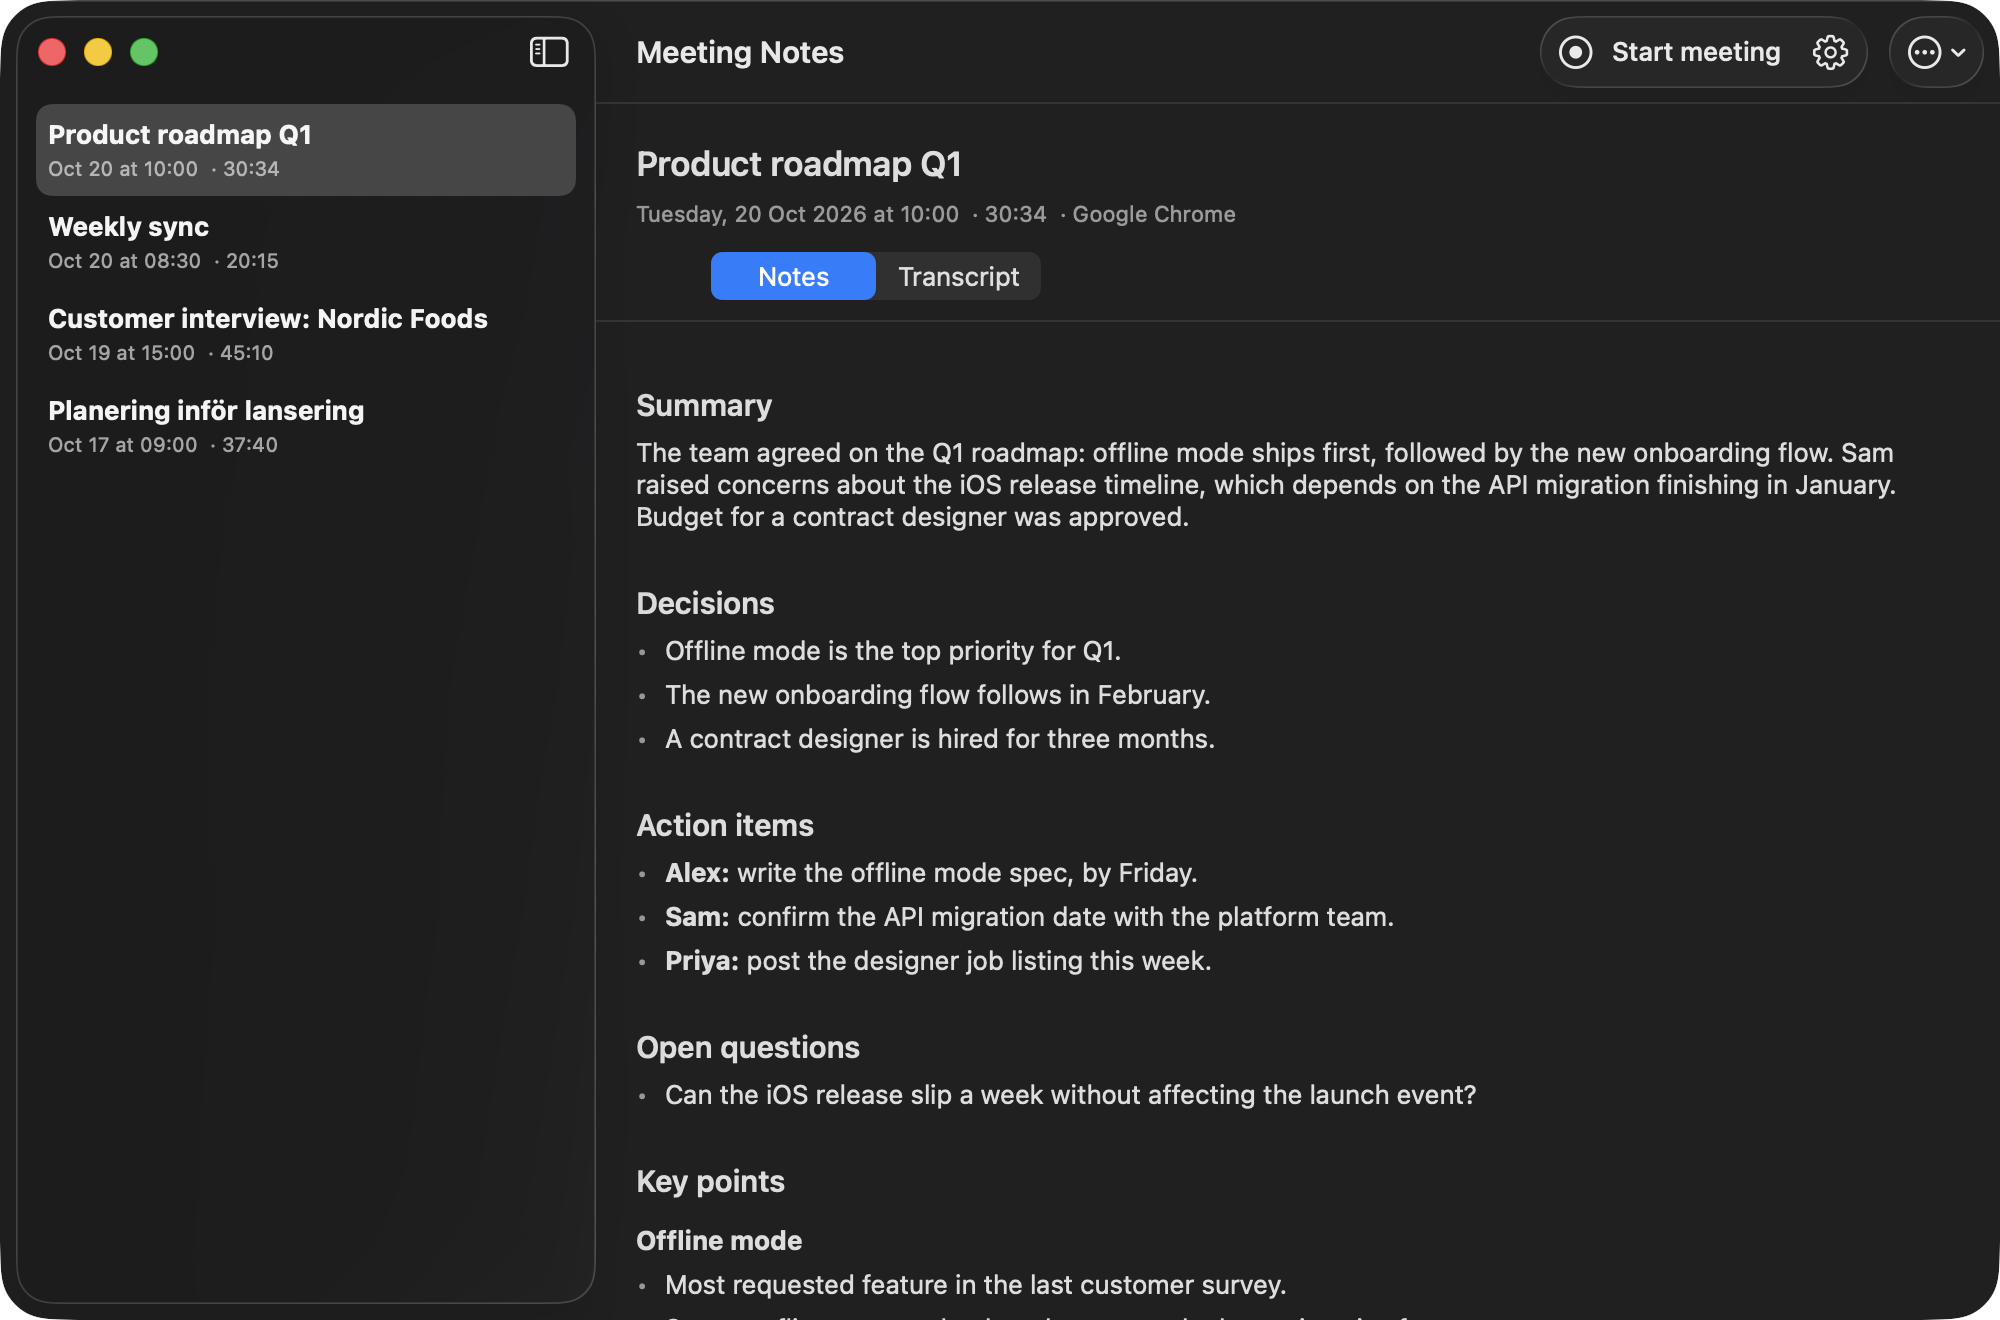
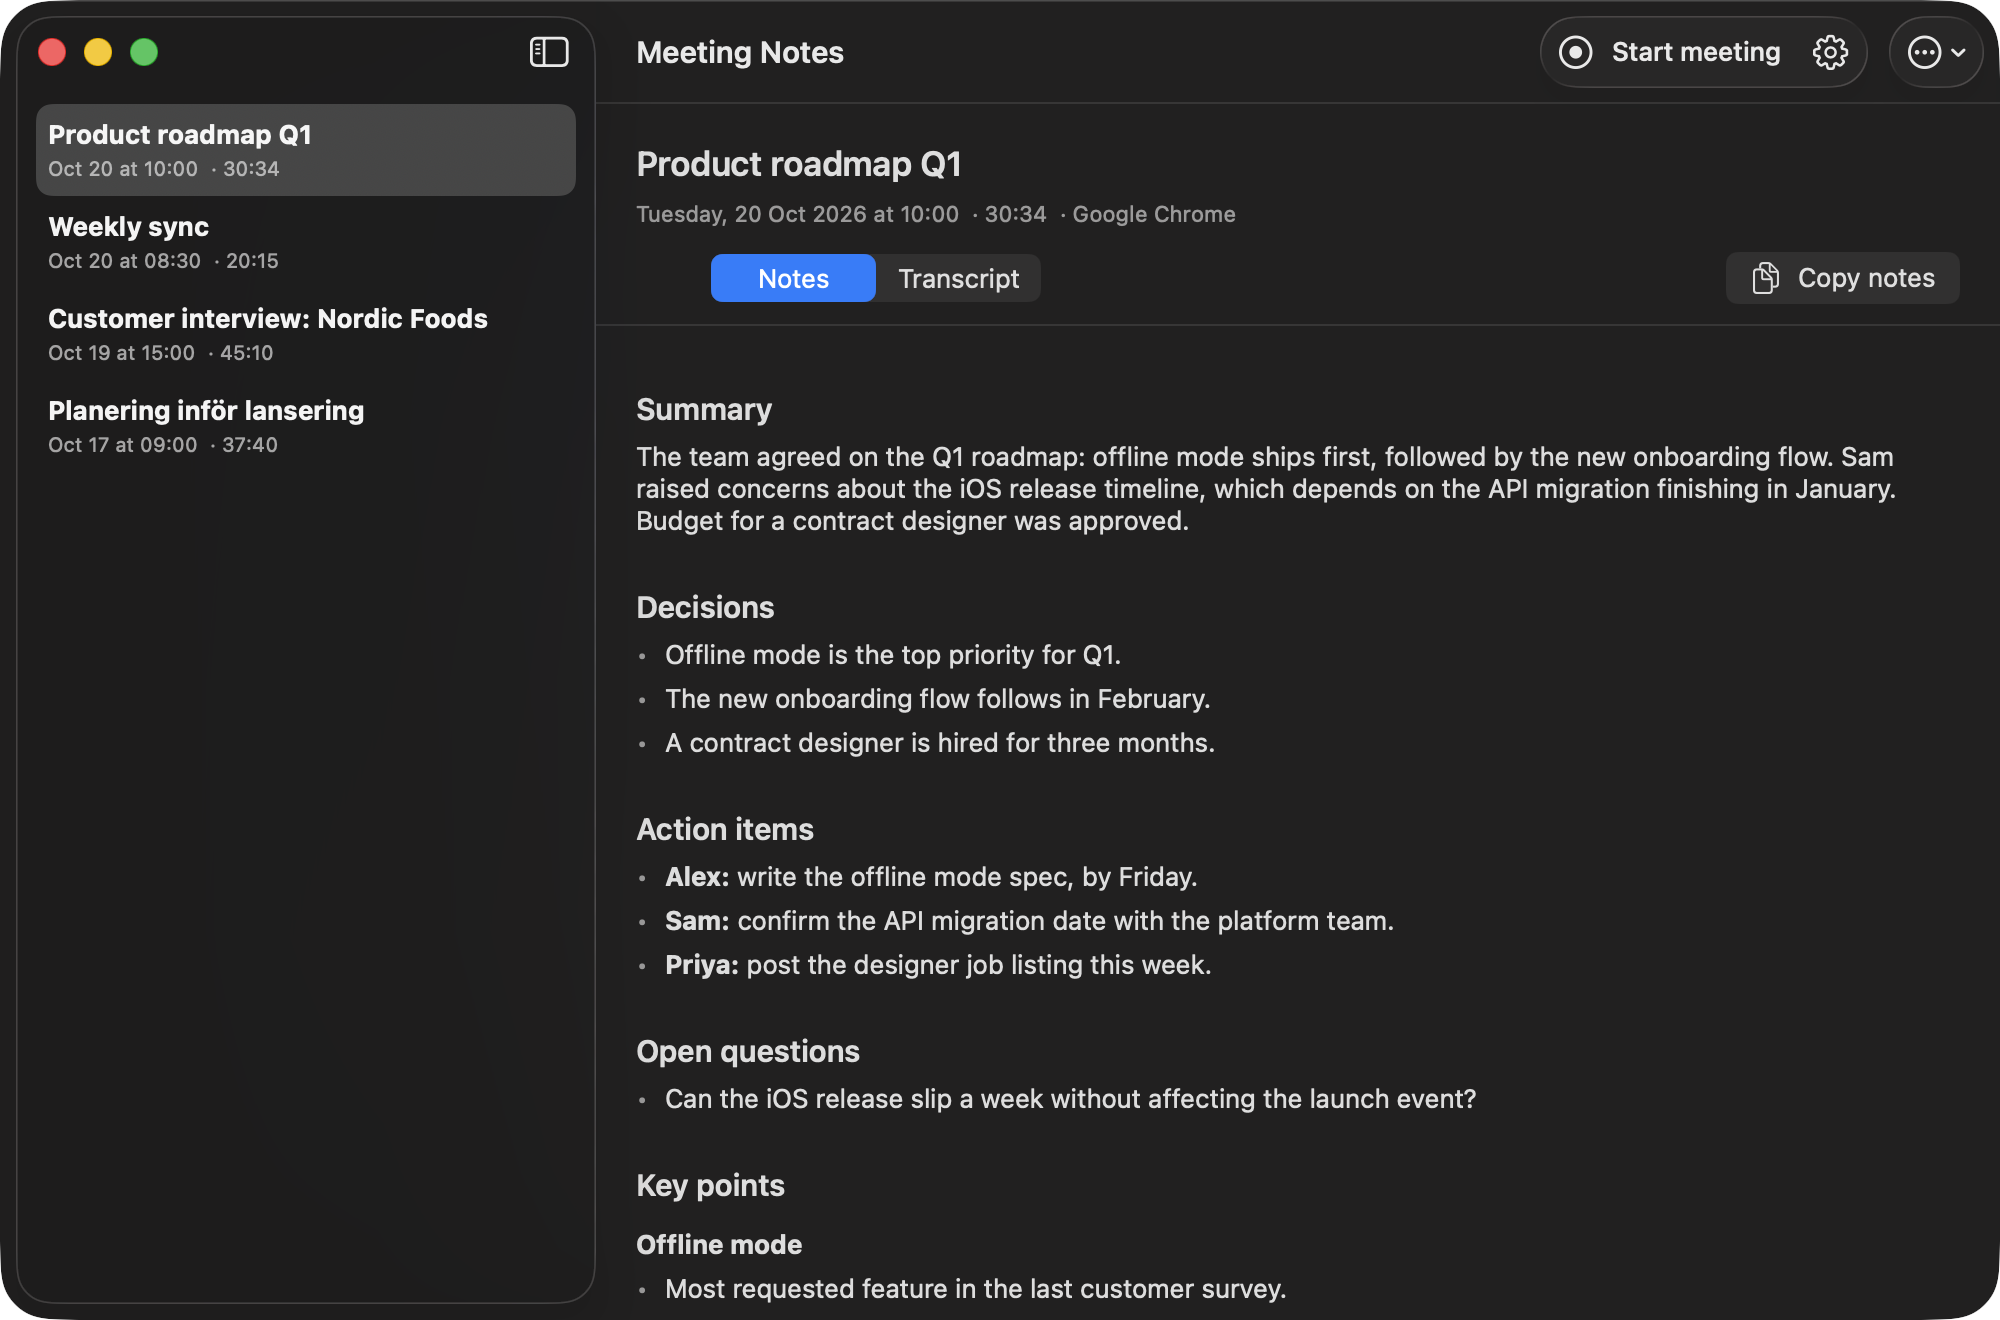
Retake screenshots with the copy button, add dark prompt

diff --git a/README.md b/README.md
@@ -21,7 +21,10 @@ A small native macOS app that records your video calls, transcribes them **on yo
   </picture>
 </p>
 <p align="center">
-  <img src="docs/images/prompt.png" alt="The prompt shown when a call is detected" width="380">
+  <picture>
+    <source media="(prefers-color-scheme: dark)" srcset="docs/images/prompt-dark.png">
+    <img src="docs/images/prompt.png" alt="The prompt shown when a call is detected" width="380">
+  </picture>
 </p>
 
 Each meeting gets its own folder with `transcript.md`, `notes.md` (Summary, Decisions, Action items, Open questions,
